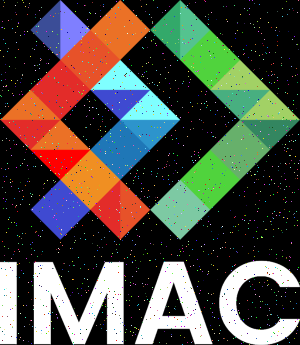
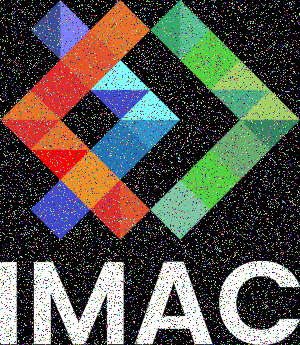
bonnes images

Changed region(s): [[0.0, 0.0, 1.0, 1.0]]

diff --git a/src/main.cpp b/src/main.cpp
@@ -100,7 +100,7 @@ void mirror2(sil::Image image) /*2e version*/
 
 void noise(sil::Image image) 
 {
-    int noiseLvl = random_int(1, 5000);
+    int noiseLvl = random_int(15000, 20000);
     
     for (int i{0}; i < noiseLvl; i++)
     {
@@ -178,7 +178,7 @@ void brightness(sil::Image image)
         }
         break;
     }
-    image.save("output/10_brightness.png");
+    image.save("output/10_brightnessDarken.png");
 }
 
 void disk(sil::Image image){

diff --git a/rapport.md b/rapport.md
@@ -3,32 +3,54 @@ semaine 20 novembre 2023
 
 #Rapport semaine Workshop de pro et alo
 
-
 ##OnlyGreen
-
+![image](./images/logo.png) ![image](./output/01_onlyGreen.png)
 ##changeRedBlue
+![image](./images/logo.png) ![image](./output/02_changeRedBlue.png)
 ##blackAndWhite
+![image](./images/logo.png) ![image](./output/03_blackAndWhite.png)
 ##negative
+![image](./images/logo.png) ![image](./output/04_negative.png)
 ##gradient
+![image](./images/blackRectangle.png) ![image](./output/05_gradient.png)
 ##mirror
+![image](./images/logo.png) ![image](./output/06_mirror1.png)
 ###mirror1
 ###mirror2
 ##noise
+![image](./images/logo.png) ![image](./output/07_noise.png)
 ##rotation90
+![image](./images/logo.png) ![image](./output/08_rotation90.png)
 ##RBGSplit
+![image](./images/logo.png) ![image](./output/09_RGBSplit.png)
 ##brightness
+![image](./images/photo.jpg) 
+![image](./output/10_brightnessLighten.png) ![image](./output/10_brightnessDarken.png)
 ##disk
+![image](./images/blackImagePhoto.png) ![image](./output/11_disk.png)
 ##circle
+![image](./images/blackImagePhoto.png) ![image](./output/12_circle.png)
 ##rosace
+![image](./images/blackImagePhoto.png) ![image](./output/13_rosace.png)
 ##mosaic
+![image](./images/logo.png) ![image](./output/14_mosaic.png)
 ##mirrorMosaic
+![image](./images/logo.png) ![image](./output/15_mirrorMosaic.png)
 ##glitch
+![image](./images/logo.png) ![image](./output/16_glitch.png)
 ##fractal
+![image](./images/blackImagePhoto.png) ![image](./output/17_fractal.png)
 ##vortex
+![image](./images/logo.png) ![image](./output/18_vortex.png)
 ##tramage
+![image](./images/photo.jpg) ![image](./output/19_tramage.png)
 ##normalisation
+![image](./images/photo_faible_contraste.jpg) ![image](./output/20_normalisation.png) A CHANGER
 ##convolutions
+![image](./images/logo.png) ![image](./output/21_convolutions.png)
 ###algoGeneriqueDeConvolutions
 ##filtresSeparables
+![image](./images/logo.png) ![image](./output/23_filtresSeparables.png)
 ##differenceDeGaussienne
+![image](./images/photo.jpg) ![image](./output/24_differenceDeGaussienne.png)
 
